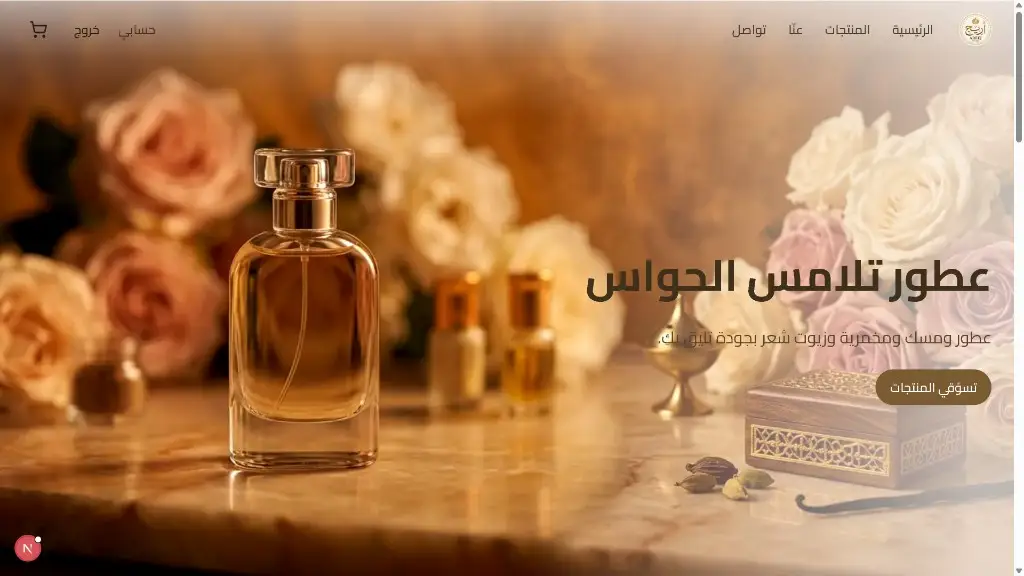
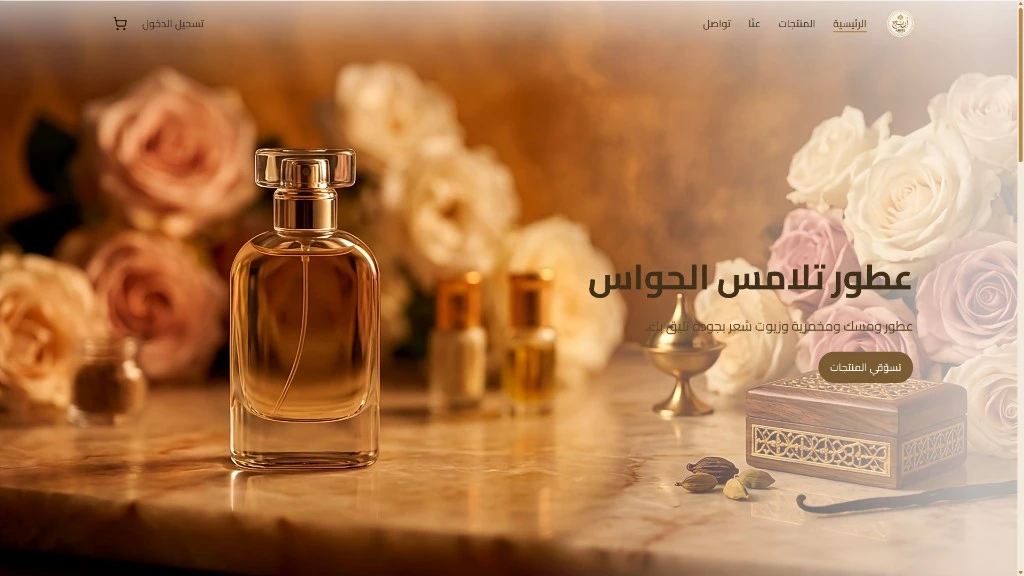
feat(content): mark Areej live with shipped copy and hero screenshot

diff --git a/src/content/projects.ts b/src/content/projects.ts
@@ -70,32 +70,33 @@ export const projects: Project[] = [
   {
     slug: "areej",
     name: "Areej",
-    tagline: "Real e-commerce store for a paying client — in active development.",
-    status: "in-development",
-    statusLabel: "In active development",
+    tagline:
+      "Arabic/RTL e-commerce store for a real fragrance shop — COD checkout and a server-guarded admin.",
+    status: "live",
+    statusLabel: "Live",
     hasCaseStudy: true,
     bullets: [
-      "Normalized 7-table PostgreSQL schema on Supabase across 8 migrations.",
-      "Row-level security with role-scoped policies (guest / customer / admin).",
-      "Server-side security via Postgres RPC — price recalculation that rejects client-submitted totals.",
-      "Structured AI-assisted workflow: project-specific Cursor rule files and coding standards authored upfront.",
+      "Shipped a full COD storefront and server-guarded admin for a live client: catalog, persisted guest cart, checkout, order history, and reviews. Arabic-only, RTL.",
+      "Order totals are never trusted from the client — a Postgres place_order RPC re-reads variant prices and is the only writer; the client sends variant and quantity, no price.",
+      "RLS plus column grants: customers cannot update profiles.role; admins can update orders.status only. Admin checks go through a private is_admin() helper.",
+      "Server data lives in TanStack Query; cart and UI state in Zustand. Forms are React Hook Form + Zod, re-validated before every write.",
     ],
     tech: [
       "Next.js 16 (App Router)",
       "React 19",
-      "TypeScript",
       "Supabase (Postgres, RLS, RPC)",
       "TanStack Query",
+      "Zustand",
+      "React Hook Form",
       "Tailwind CSS v4",
       "shadcn/ui",
-      "Cursor",
     ],
-    liveUrl: null,
+    liveUrl: "https://areej-store-kappa.vercel.app/",
     repoUrl: "https://github.com/Amaribrahim-1/areej-store",
     screenshots: [
       {
         src: areejHome,
-        alt: "Areej storefront hero with Arabic navigation, perfume product photography, and a shop-products call to action.",
+        alt: "Areej Arabic storefront hero: perfume bottle on the left, تسوقي المنتجات on the right.",
       },
     ],
   },

diff --git a/src/content/profile.ts b/src/content/profile.ts
@@ -33,7 +33,7 @@ const aboutRows = [
   "I'm Amar, a frontend developer and final-year Computer Science student based in Egypt.",
   "I specialize in React and Next.js, and I care as much about how a product is built as how it looks — clear architecture, real security, and code that holds up in production, not just a nice UI.",
   "My strongest project so far is Exam.io, a full-stack exam platform with a custom anti-cheat engine and multi-role dashboards.",
-  "Right now I'm building Areej, a real e-commerce store for a paying client, from database security to the storefront UI.",
+  "I shipped Areej, a real e-commerce store for a paying client, from database security to the storefront UI.",
   "I'm currently taking on freelance frontend work.",
 ] as const;
 

diff --git a/README.md b/README.md
@@ -41,7 +41,7 @@ Personal site for [Amar Ibrahim Fawzy](https://github.com/Amaribrahim-1), a fron
 | Project | Status | Links |
 | --- | --- | --- |
 | **Exam.io** — full-stack exam platform with real-time anti-cheat, built solo | Live | [Case study](https://portfolio-amaribrahim-1s-projects.vercel.app/projects/exam-io) · [Demo](https://exam-platform-7r4y.vercel.app) · [Repo](https://github.com/Amaribrahim-1/exam_platform) |
-| **Areej** — e-commerce store for a paying client | In active development | [Case study](https://portfolio-amaribrahim-1s-projects.vercel.app/projects/areej) · [Repo](https://github.com/Amaribrahim-1/areej-store) |
+| **Areej** — Arabic/RTL e-commerce store for a paying client | Live | [Case study](https://portfolio-amaribrahim-1s-projects.vercel.app/projects/areej) · [Demo](https://areej-store-kappa.vercel.app/) · [Repo](https://github.com/Amaribrahim-1/areej-store) |
 | **Online Bookstore** — storefront with role-based access, search, and cart | Live | [Demo](https://book-store-bay-phi.vercel.app) · [Repo](https://github.com/Amaribrahim-1/Book-Store) |
 
 Bookstore is homepage-only (no case-study route).
